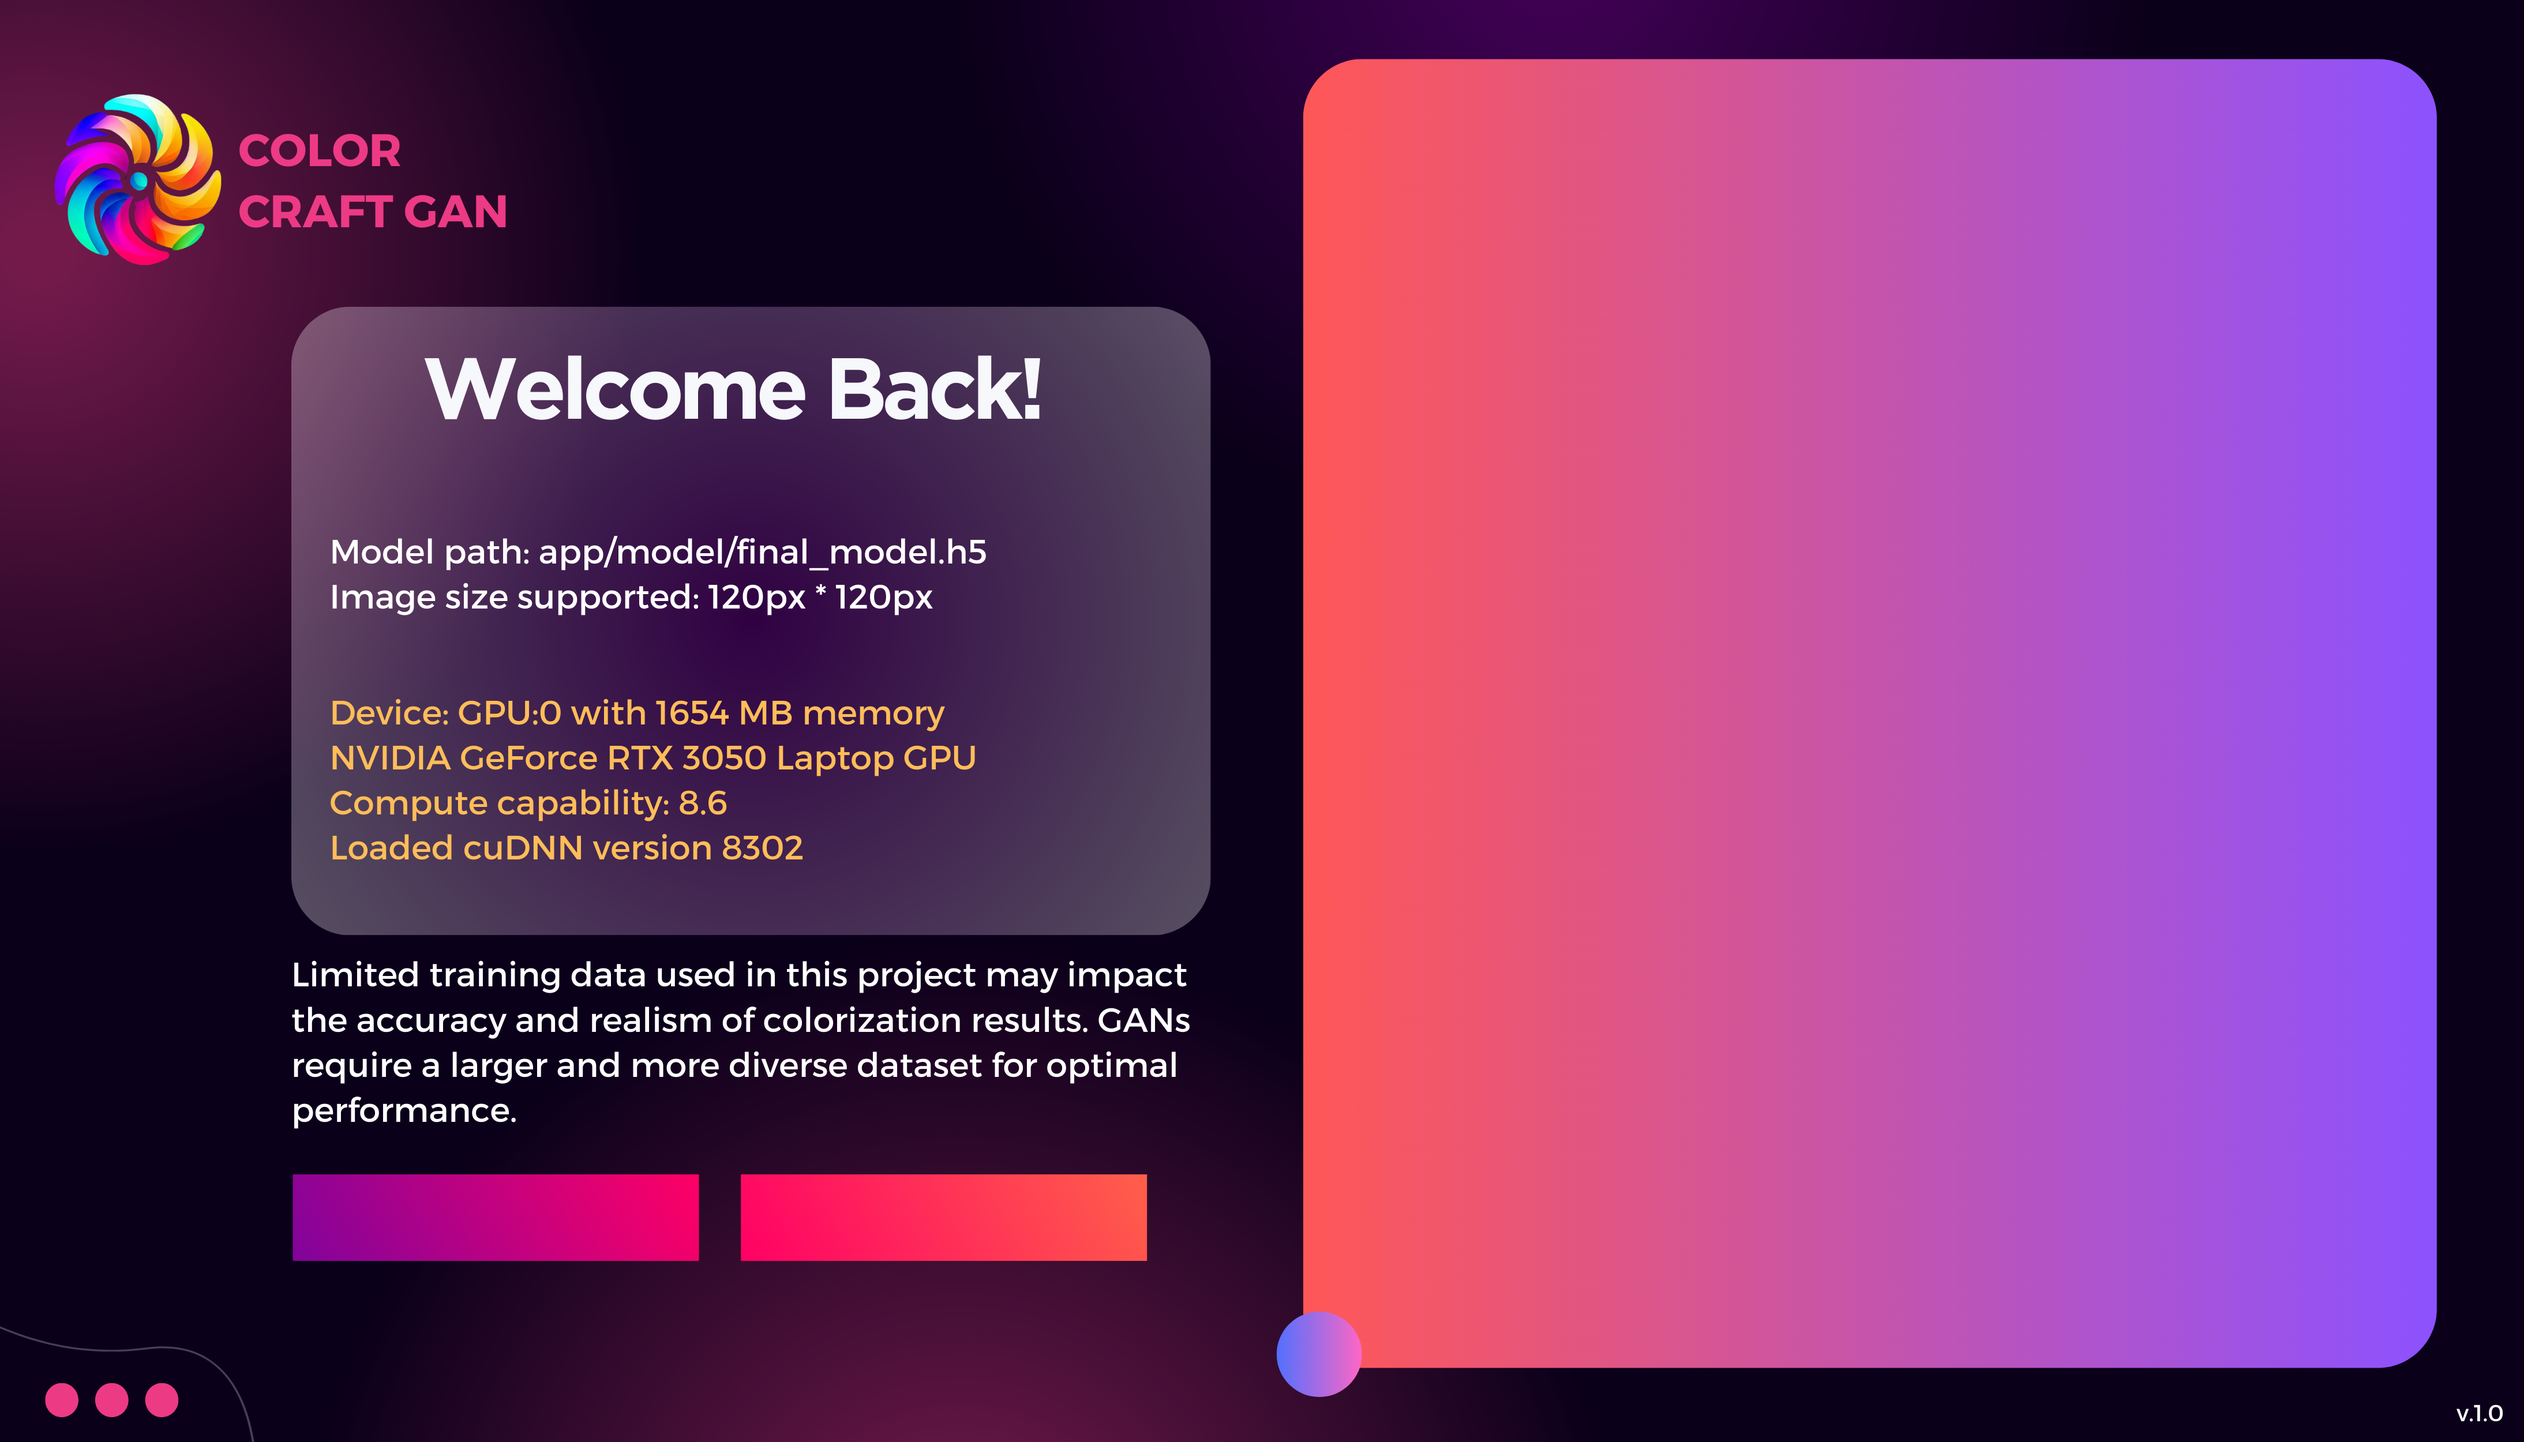
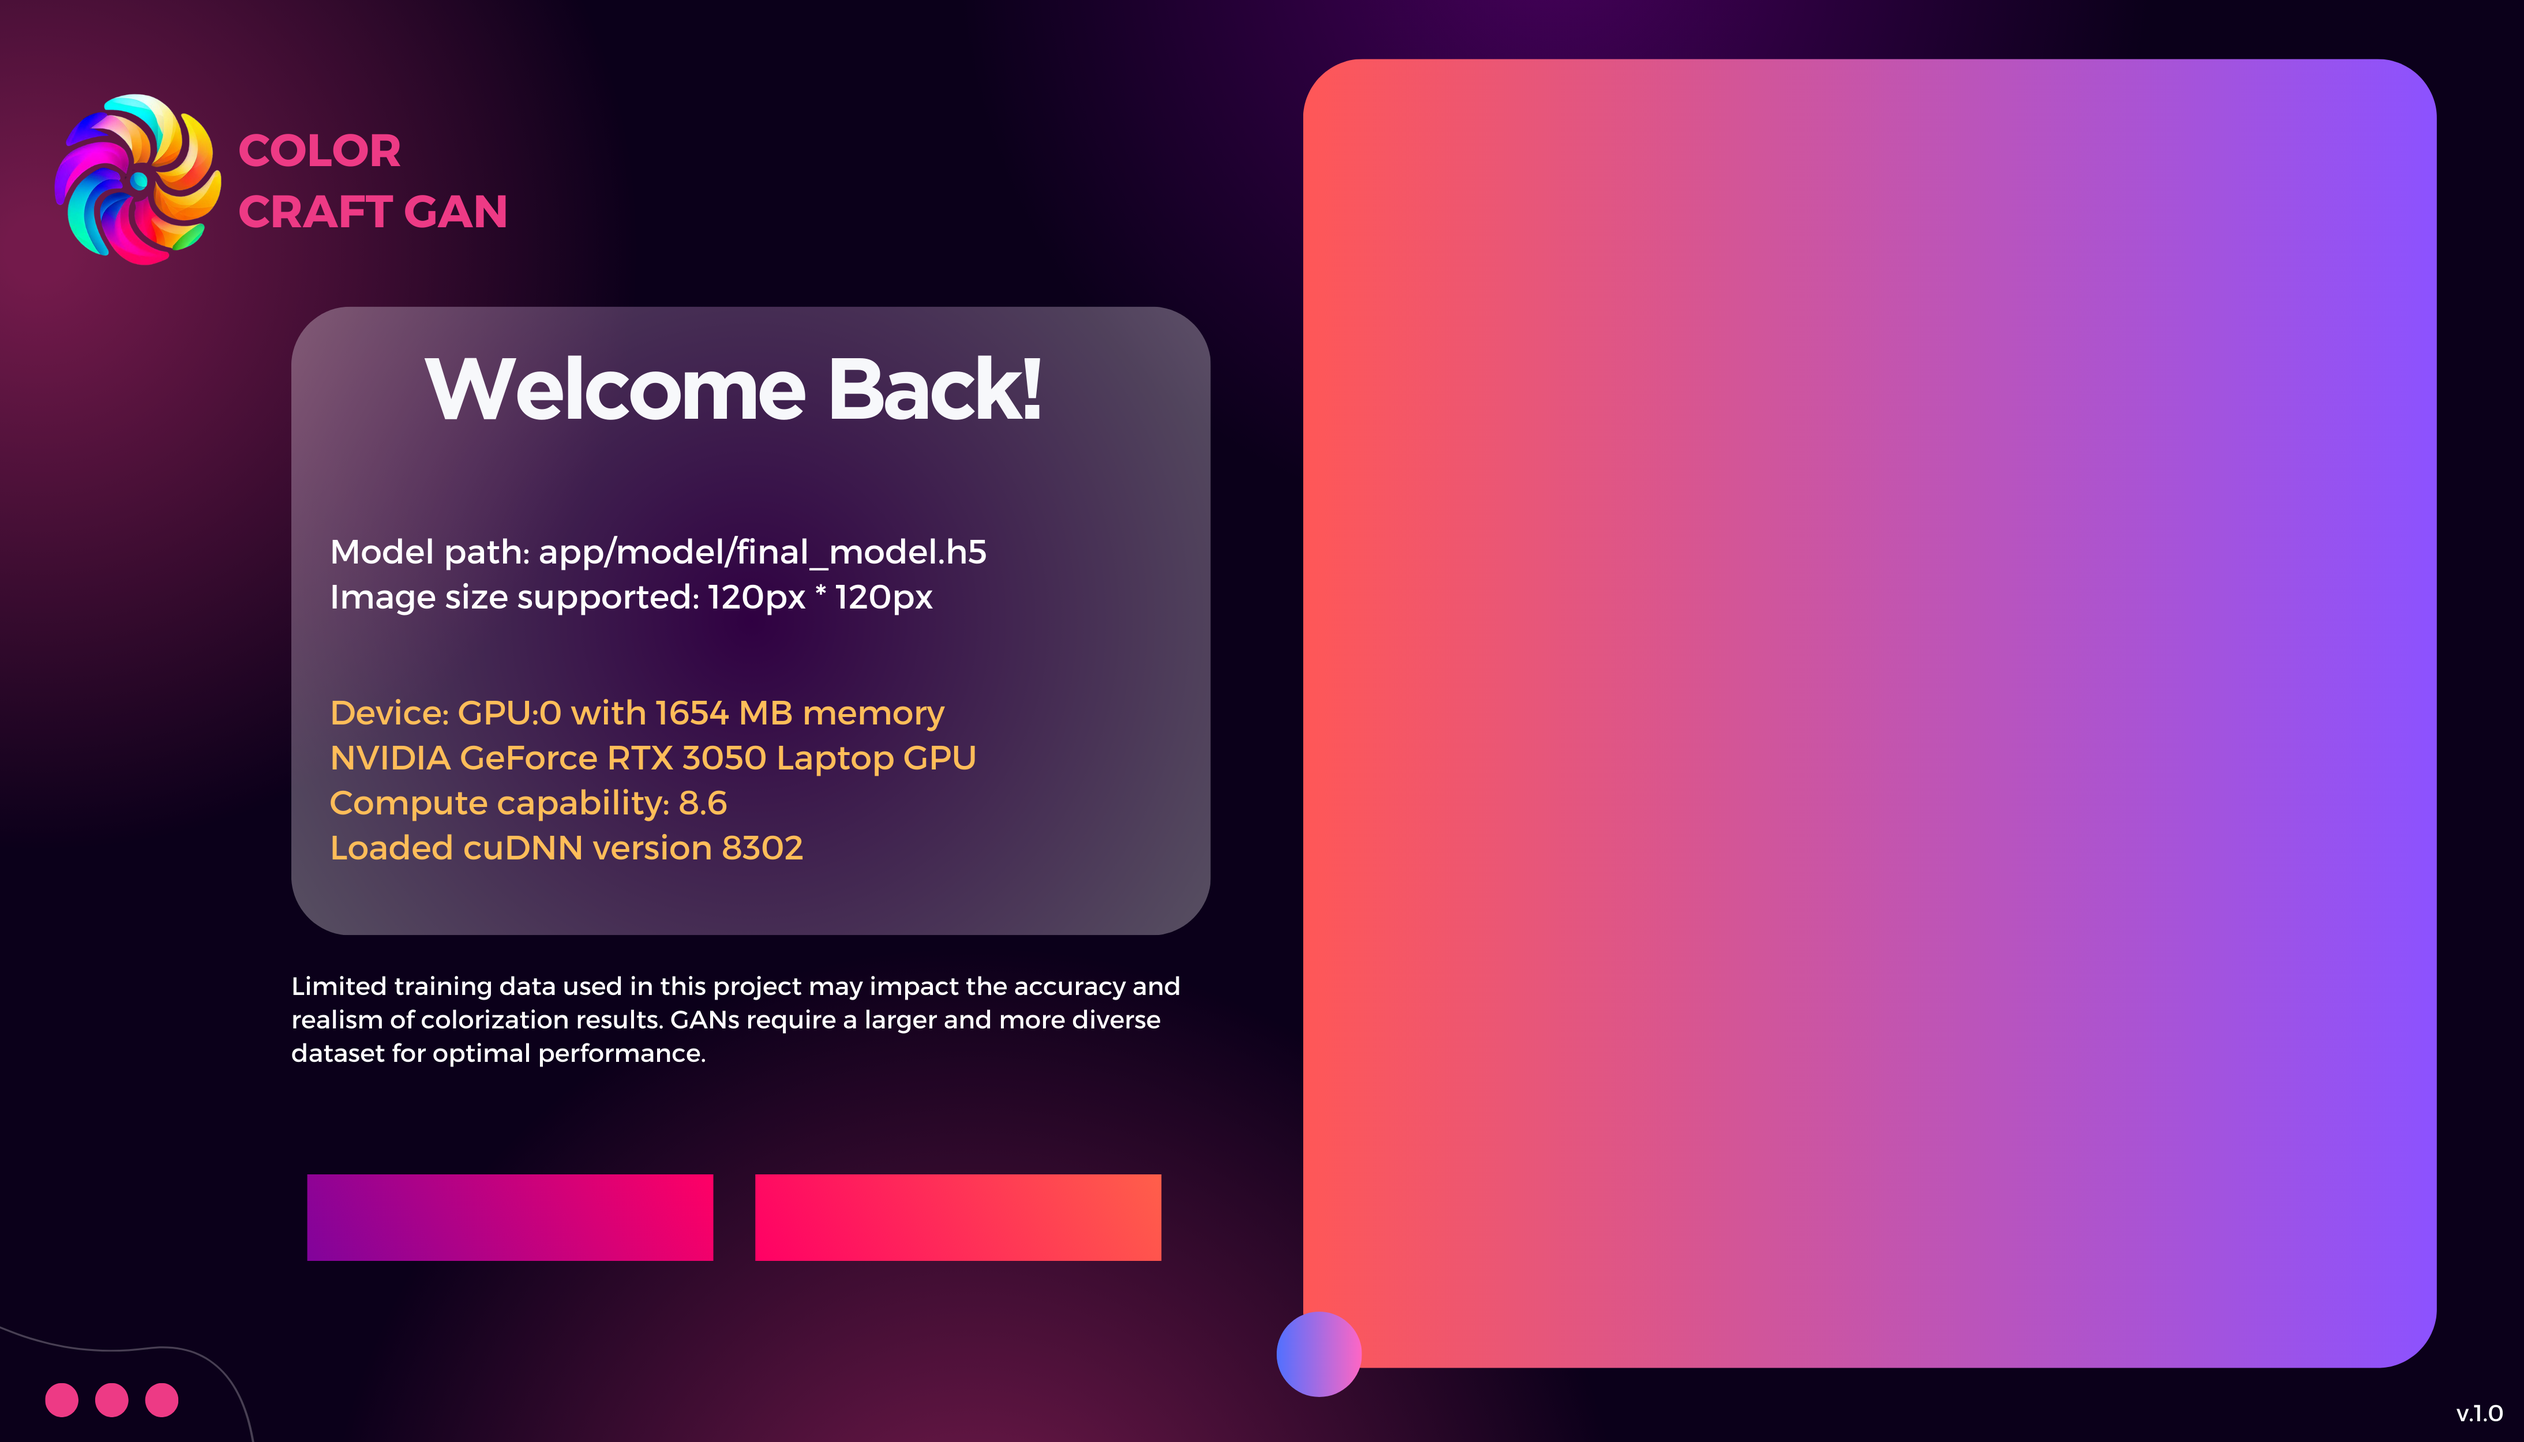
init

diff --git a/app/ui/main.py b/app/ui/main.py
@@ -2,7 +2,7 @@ import sys
 import tensorflow as tf
 from PyQt5.QtGui import QIcon, QPixmap
 from PyQt5.QtWidgets import QApplication, QMainWindow, QVBoxLayout, QHBoxLayout, QWidget, QPushButton, QLabel
-from PyQt5.QtCore import Qt
+from PyQt5.QtCore import Qt, QFile, QTextStream
 
 from app.ui.components.backgroundwidget import BackgroundWidget
 
@@ -35,15 +35,25 @@ class MainAppWindow(QMainWindow):
         self.setCentralWidget(central_widget)
 
         # Add buttons to the main layout
-        button1 = QPushButton("Button 1", self)
-        button1.setGeometry(250, 572, 100, 50)  # Set position and size in pixels
+        browse_grey_but = QPushButton("Browse grey-scale image", self)
+        browse_grey_but.setObjectName("browse_grey_but")
+        browse_grey_but.setGeometry(177, 646, 222, 47)  # Set position and size in pixels
 
-        button2 = QPushButton("Button 2", self)
-        button2.setGeometry(450, 572, 100, 50)  # Set position and size in pixels
+        colorize_but = QPushButton("Colorize image", self)
+        colorize_but.setObjectName("colorize_but")
+        colorize_but.setGeometry(422, 646, 223, 47)  # Set position and size in pixels
+
+    def load_stylesheet(self):
+        styleshet = QFile("Styles/style.qss")
+        if styleshet.open(QFile.ReadOnly | QFile.Text):
+            print("hello")
+            stream = QTextStream(styleshet)
+            self.setStyleSheet(stream.readAll())
 
 
 QApplication.setAttribute(Qt.AA_EnableHighDpiScaling, True)
 app = QApplication(sys.argv)
 window = MainAppWindow()
+window.load_stylesheet()
 window.show()
 sys.exit(app.exec_())
